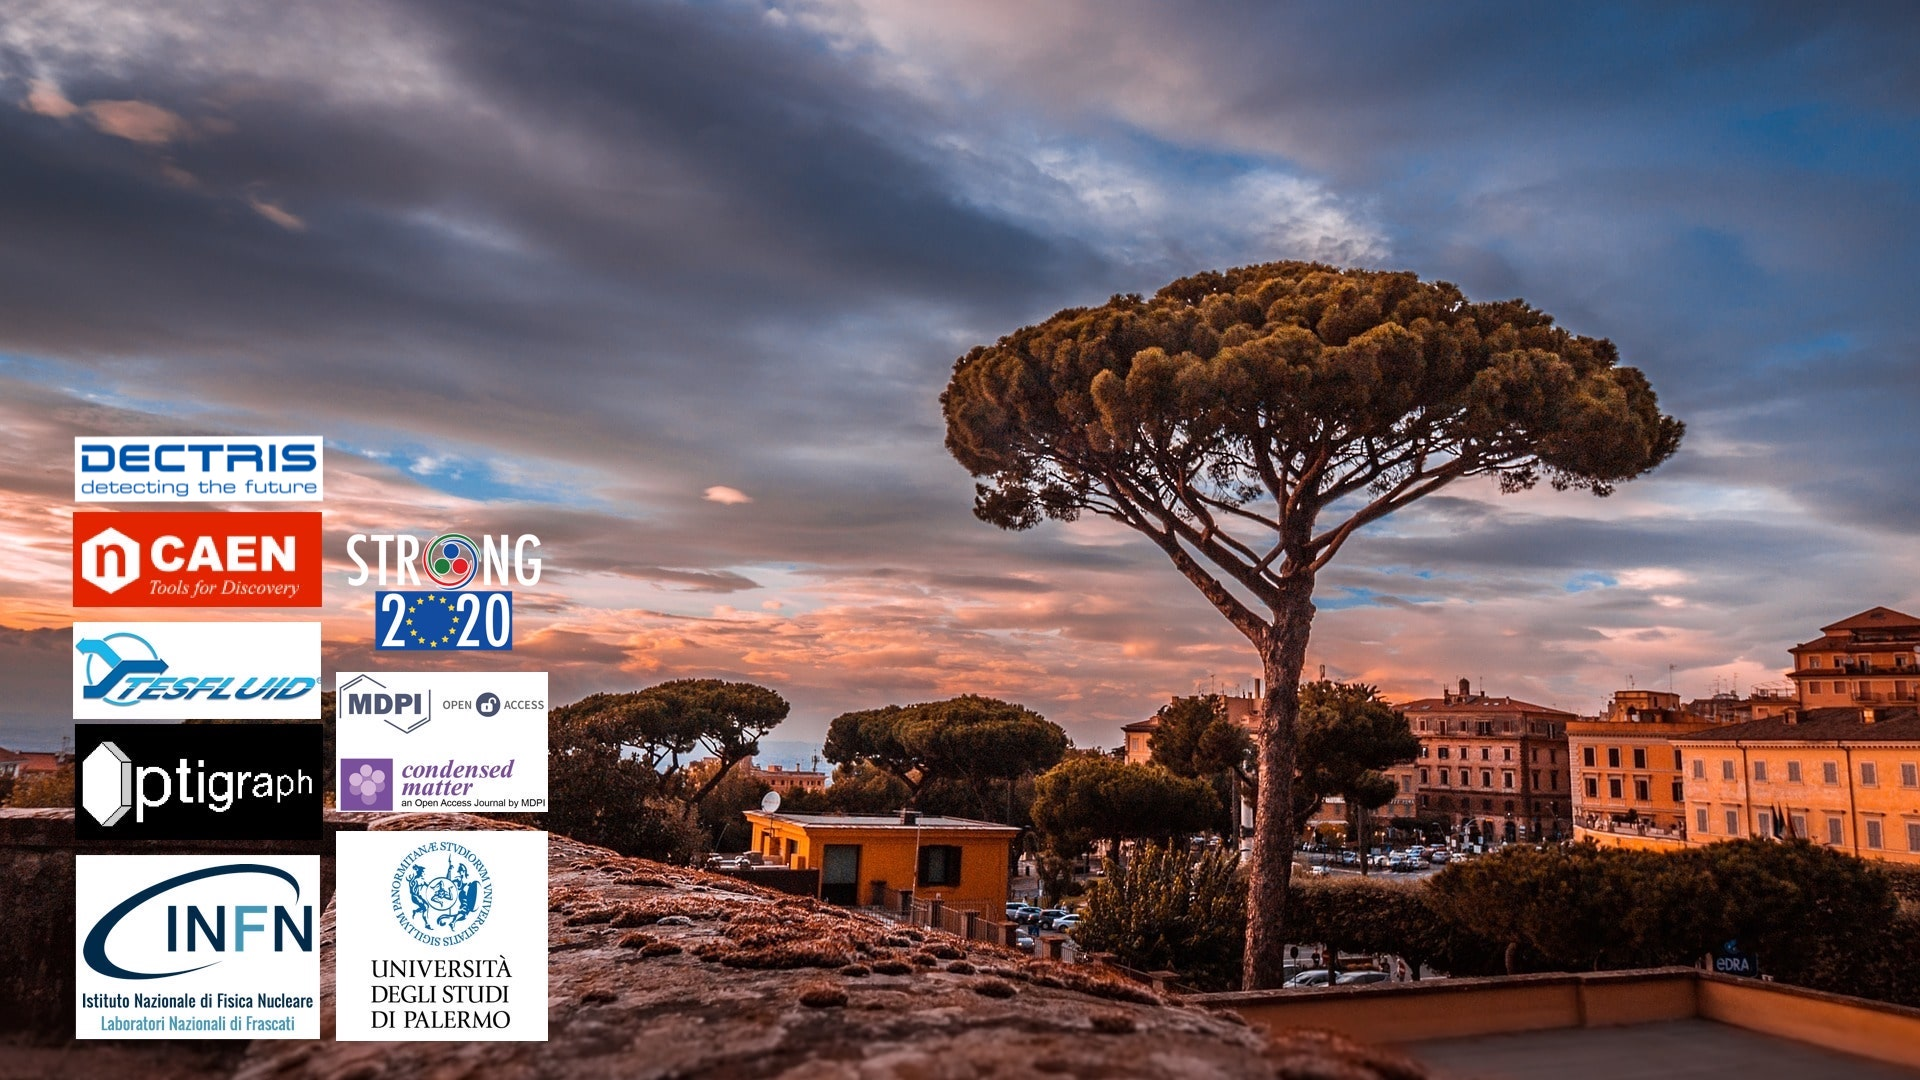
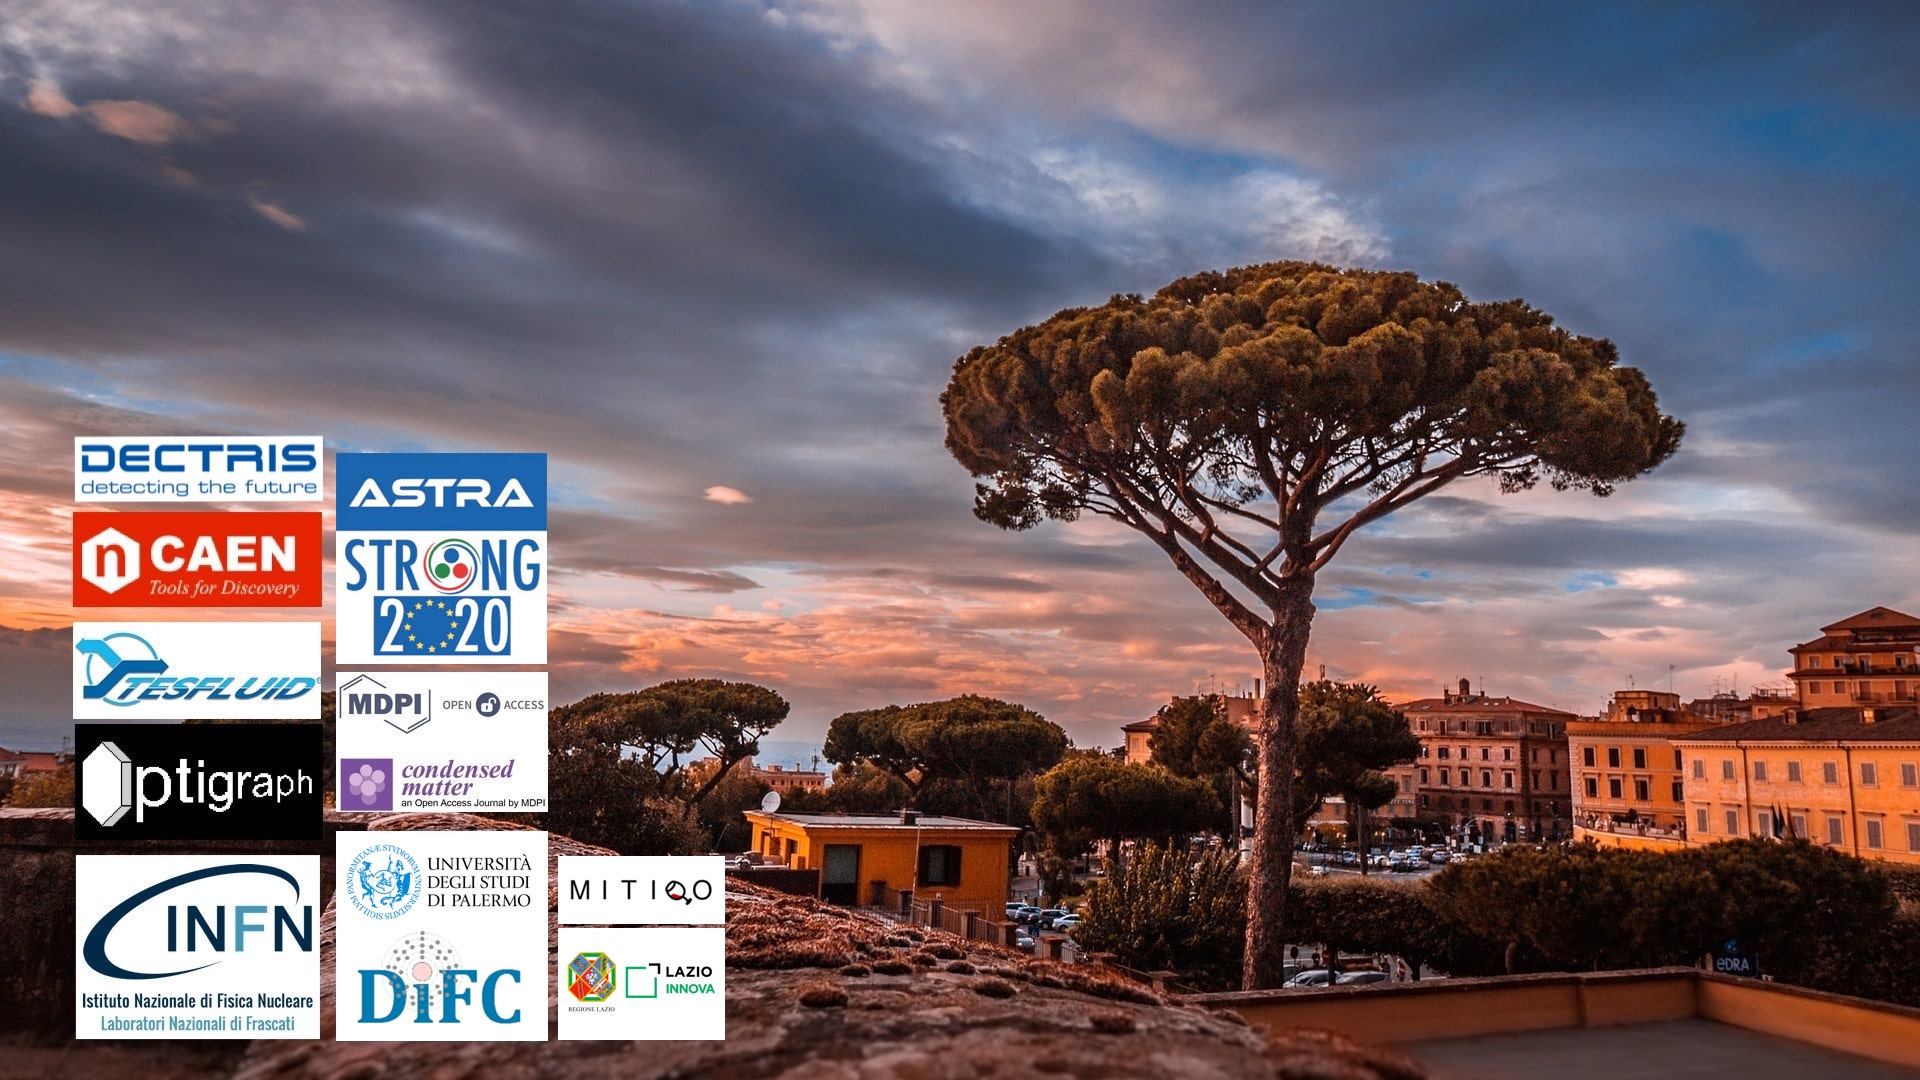
new sponsors

Changed region(s): [[0.1562, 0.3972, 0.3125, 0.6417], [0.1562, 0.7639, 0.375, 0.9778]]

diff --git a/sponsors/index.html b/sponsors/index.html
@@ -74,8 +74,10 @@
         <li>&bull; <a href="https://www.dectris.com/">Dectris</a></li>
 	<li>&bull; <a href="https://w3.lnf.infn.it/">INFN-LNF</a></li>
         <li>&bull; <a href="https://www.mdpi.com/">MDPI</a></li>
+        <li>&bull; <a href="">MITIQO project</a></li>
         <li>&bull; <a href="http://www.optigraph.eu/">Optigraph GmbH</a></li>
         <li>&bull; <a href="https://www.lucedisincrotrone.it/en/homepage/">SILS</a></li>
+        <li>&bull; <a href="https://www.lazioinnova.it">Regione Lazio - Lazio Innova</a></li>
 	<li>&bull; <a href="http://www.strong-2020.eu/">STRONG2020</a></li>
         <li>&bull; <a href="https://www.tesfluid.com/">Testfluid S.R.L.</a></li>
         <li>&bull; <a href="https://www.unipa.it/dipartimenti/difc">Università di Palermo</a></li>
@@ -108,9 +110,18 @@
             </td>
         </tr>
         <tr>
+            <td class="sponsor">
+                <a href=""><img src="assets/mitiqo.png"></a>
+            </td> 
+            <td class="sponsor">
+                <a href="https://www.lazioinnova.it"><img src="assets/lazioinnova.jpg"></a>
+            </td>
             <td class="sponsor" >
                 <a href="http://www.strong-2020.eu/"><img src="assets/logostrong.png" style="background: black"></a>
             </td>
+        </tr>
+        <tr>
+
             <td class="sponsor" >
                 <a href="https://www.tesfluid.com/"><img src="assets/logo-tesfluid-300.png"></a>
             </td>
